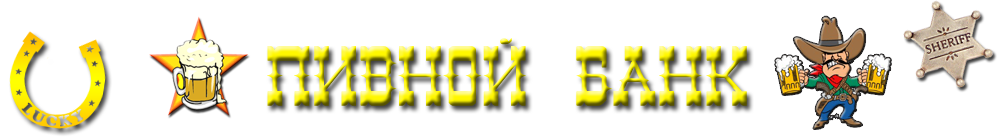
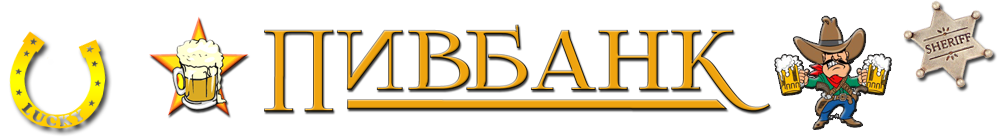
rebranding

Changed region(s): [[0.2473, 0.1739, 0.7727, 0.8406]]

diff --git a/about.html b/about.html
@@ -22,7 +22,7 @@
 		<!--#include file="inc/header.html"-->
 		<div class="mainbar">
 			<p>
-				Приглашаем Вас посетить магазин живого пива «Пивной банк»<br />
+				Приглашаем Вас посетить магазин живого пива «ПивбанК»<br />
 				<br />
 				<b>г. Николаев, проспект Корабелов 9а/2 (бывший Дом быта)
 					<br />
@@ -56,64 +56,7 @@
 				<li>с <a href="index.html">нашего сайта</a></li>
 			</ul>
 			<br />
-			<table class="select-none">
-				<tr>
-					<td class="browse-button left">
-						<a class="prev browse left">1</a>
-					</td>
-					<td>
-						<div class="scrollable">
-							<div class="items">
-								<div>
-									<img src="img/photo/1.jpg" alt="photo" />
-								</div>
-								<div>
-									<img src="img/photo/2.jpg" alt="photo" />
-								</div>
-								<div>
-									<img src="img/photo/3.jpg" alt="photo" />
-								</div>
-								<div>
-									<img src="img/photo/4.jpg" alt="photo" />
-								</div>
-								<div>
-									<img src="img/photo/5.jpg" alt="photo" />
-								</div>
-								<div>
-									<img src="img/photo/6.jpg" alt="photo" />
-								</div>
-								<div>
-									<img src="img/photo/7.jpg" alt="photo" />
-								</div>
-								<div>
-									<img src="img/photo/8.jpg" alt="photo" />
-								</div>
-								<div>
-									<img src="img/photo/9.jpg" alt="photo" />
-								</div>
-								<div>
-									<img src="img/photo/10.jpg" alt="photo" />
-								</div>
-								<div>
-									<img src="img/photo/11.jpg" alt="photo" />
-								</div>
-								<div>
-									<img src="img/photo/12.jpg" alt="photo" />
-								</div>
-								<div>
-									<img src="img/photo/13.jpg" alt="photo" />
-								</div>
-								<div>
-									<img src="img/photo/14.jpg" alt="photo" />
-								</div>
-							</div>
-						</div>
-					</td>
-					<td class="browse-button">
-						<a class="next browse right">1</a>
-					</td>
-				</tr>
-			</table>
+			
 			<div class="patch_minheight">
 			</div>
 		</div>

diff --git a/bonus.html b/bonus.html
@@ -43,14 +43,14 @@
 				<ul>
 					<li>5 бонусов можно обменять на снековую продукцию стоимостью 5грн.</li>
 					<li>10 бонусов можно обменять на 1л. пива</li>
-					<li>20 бонусов можно обменять на фирменный бокал "Пивной банк"</li>
+					<li>20 бонусов можно обменять на фирменный бокал</li>
 				</ul>
 				<br />
 				<p>
 					Дисконтную карту нужно предъявлять продавцу при каждой покупке или при заказе доставки
 					в момент передачи товара.</p>
 				<p>
-					Данная бонусная программа действует только в магазине «Пивной банк» расположенного
+					Данная бонусная программа действует только в магазине «Пивбанк» расположенного
 					по адресу: г. Николаев, пр. Корабелов 9а/2.</p>
 				<br />
 				<div class="bonus-program">

diff --git a/delivery.html b/delivery.html
@@ -58,8 +58,6 @@
 				<li>оплата осуществляется непосредственно в момент доставки заказа</li>
 				<li>для получения скидки необходимо предъявлять дисконтную карту в момент оплаты заказа</li>
 			</ul>
-			<div class="delivery-image">
-			</div>
 			<div class="patch_minheight">
 			</div>
 		</div>

diff --git a/inc/footer.html b/inc/footer.html
@@ -1,6 +1,6 @@
 <div class="footer">
 	<div class="copyright">
-		Сopyright© 2011-2013 “Пивной Банк”</div>
+		Сopyright© 2011-2013 “ПивбанК”</div>
 	<div class="safe">
 	</div>
 	<div class="fish">
